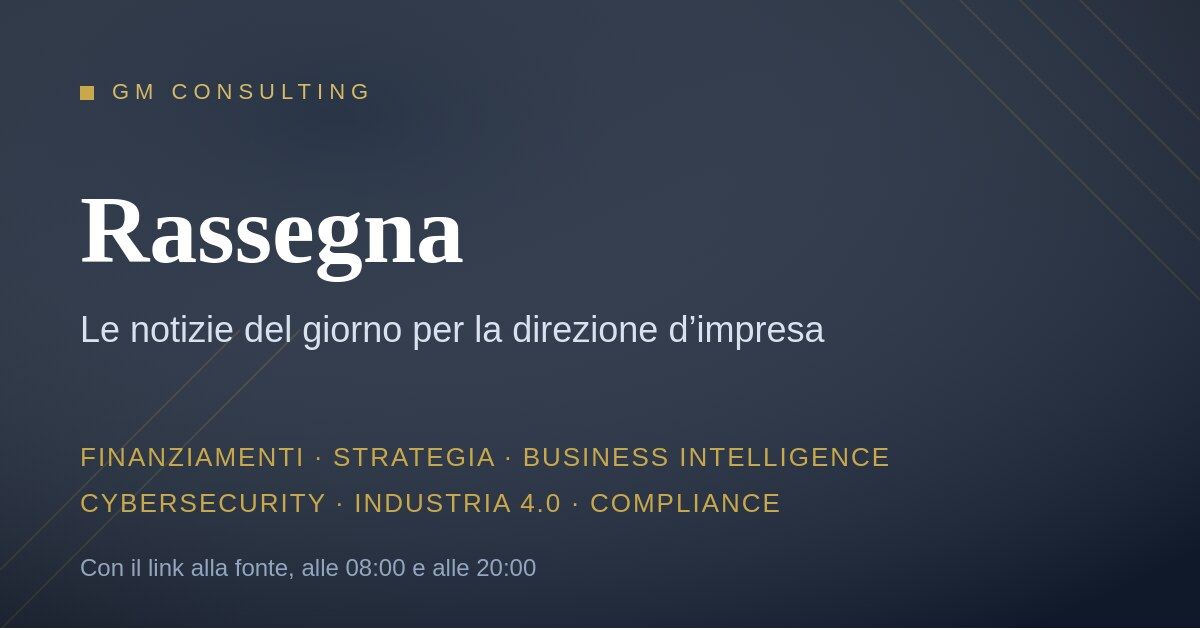
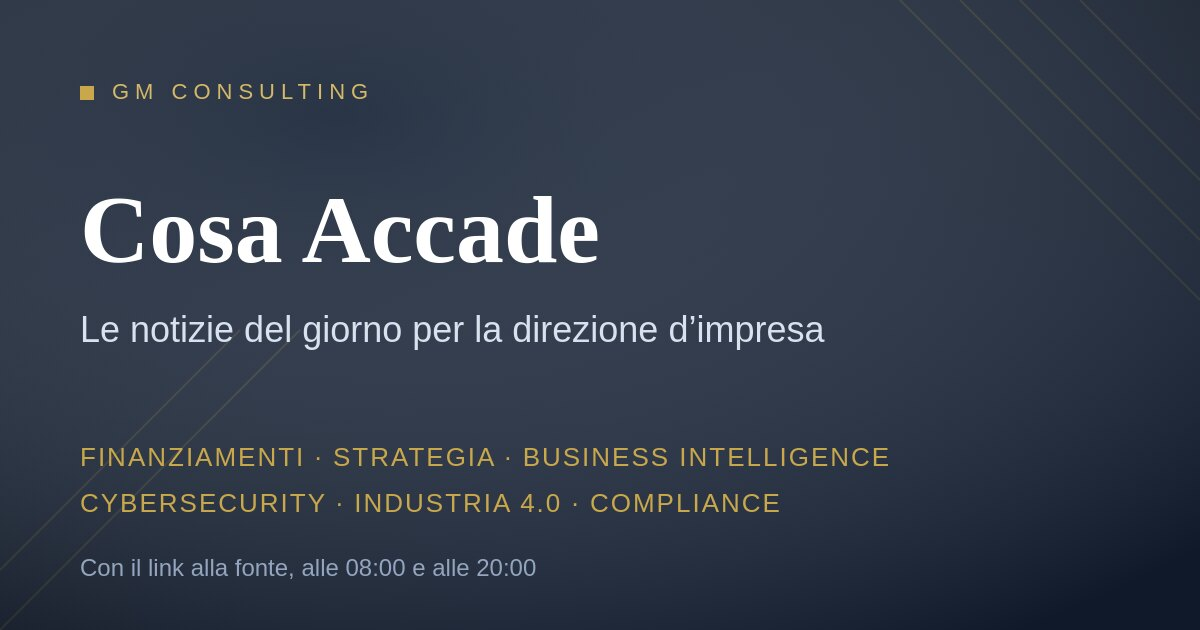
rassegna: titolo Cosa Accade su pagina, menu, meta e copertina

Changed region(s): [[0.185, 0.3016, 0.5242, 0.4524], [0.0, 0.9952, 1.0, 1.0], [0.0617, 0.3016, 0.1542, 0.4222]]

diff --git a/src/app/rassegna/page.tsx b/src/app/rassegna/page.tsx
@@ -8,7 +8,7 @@ import type { NewsDigest, SourceStatus } from "@/lib/news/digest"
 import { newsCategories, newsSources } from "@/lib/news/sources"
 
 export const metadata: Metadata = {
-  title: "Rassegna — Le notizie del giorno",
+  title: "Cosa Accade — Le notizie del giorno",
   description:
     "Strategia, business intelligence, cybersecurity, finanziamenti pubblici e fisco: le notizie del giorno con il link alla fonte, alle 08:00 e alle 20:00.",
   alternates: { canonical: "https://www.gmconsulting.one/rassegna" },
@@ -20,7 +20,7 @@ export const metadata: Metadata = {
     type: "website",
     locale: "it_IT",
     siteName: "GM Consulting S.r.l.",
-    title: "Rassegna — Le notizie del giorno per l'impresa",
+    title: "Cosa Accade — Le notizie del giorno per l'impresa",
     description:
       "Finanziamenti pubblici, strategia, business intelligence, cybersecurity e compliance: le notizie del giorno con il link alla fonte, alle 08:00 e alle 20:00.",
     url: "https://www.gmconsulting.one/rassegna",
@@ -29,13 +29,13 @@ export const metadata: Metadata = {
         url: "https://www.gmconsulting.one/images/rassegna-og.jpg",
         width: 1200,
         height: 630,
-        alt: "Rassegna GM Consulting — le notizie del giorno per la direzione d'impresa, con il link alla fonte",
+        alt: "Cosa Accade — GM Consulting — le notizie del giorno per la direzione d'impresa, con il link alla fonte",
       },
     ],
   },
   twitter: {
     card: "summary_large_image",
-    title: "Rassegna — Le notizie del giorno per l'impresa",
+    title: "Cosa Accade — Le notizie del giorno per l'impresa",
     description:
       "Finanziamenti pubblici, strategia, business intelligence, cybersecurity e compliance: le notizie del giorno con il link alla fonte.",
     images: ["https://www.gmconsulting.one/images/rassegna-og.jpg"],
@@ -88,7 +88,7 @@ export default async function RassegnaPage() {
       <Hero
         variant="compact"
         eyebrow="Rassegna"
-        title="Le notizie del giorno per la direzione d'impresa"
+        title="Cosa Accade"
         lead="Strategia, business intelligence, cybersecurity, finanziamenti pubblici agli investimenti, compliance e fisco. Ogni voce rimanda alla fonte originale: la rassegna si aggiorna alle 08:00 e alle 20:00."
       />
 

diff --git a/src/components/site-footer.tsx b/src/components/site-footer.tsx
@@ -11,7 +11,7 @@ const navigazione = [
   { href: "/aree-di-intervento", label: "Aree di intervento" },
   { href: "/compliance", label: "Compliance" },
   { href: "/insights", label: "Insights" },
-  { href: "/rassegna", label: "Rassegna" },
+  { href: "/rassegna", label: "Cosa Accade" },
   { href: "/assessment", label: "Assessment" },
 ]
 

diff --git a/src/components/site-header.tsx b/src/components/site-header.tsx
@@ -11,7 +11,7 @@ const NAV_ITEMS = [
   { href: "/aree-di-intervento", label: "Aree di intervento" },
   { href: "/compliance", label: "Compliance" },
   { href: "/insights", label: "Insights" },
-  { href: "/rassegna", label: "Rassegna" },
+  { href: "/rassegna", label: "Cosa Accade" },
 ]
 
 export function SiteHeader() {
